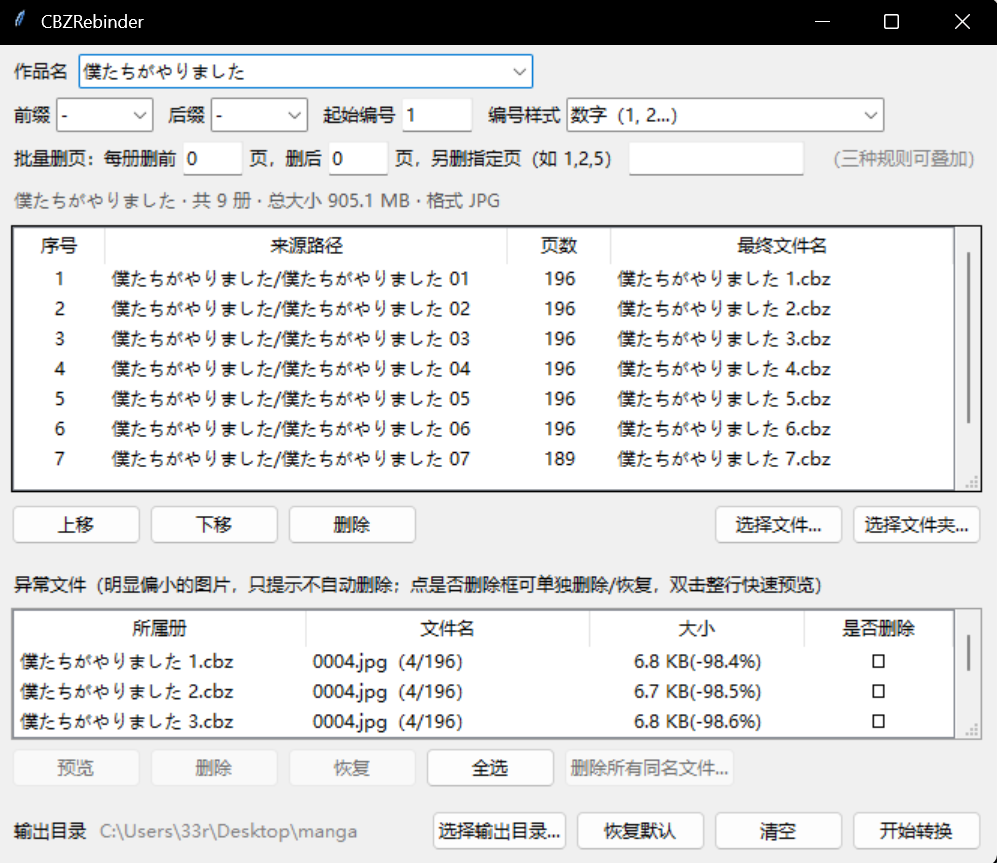
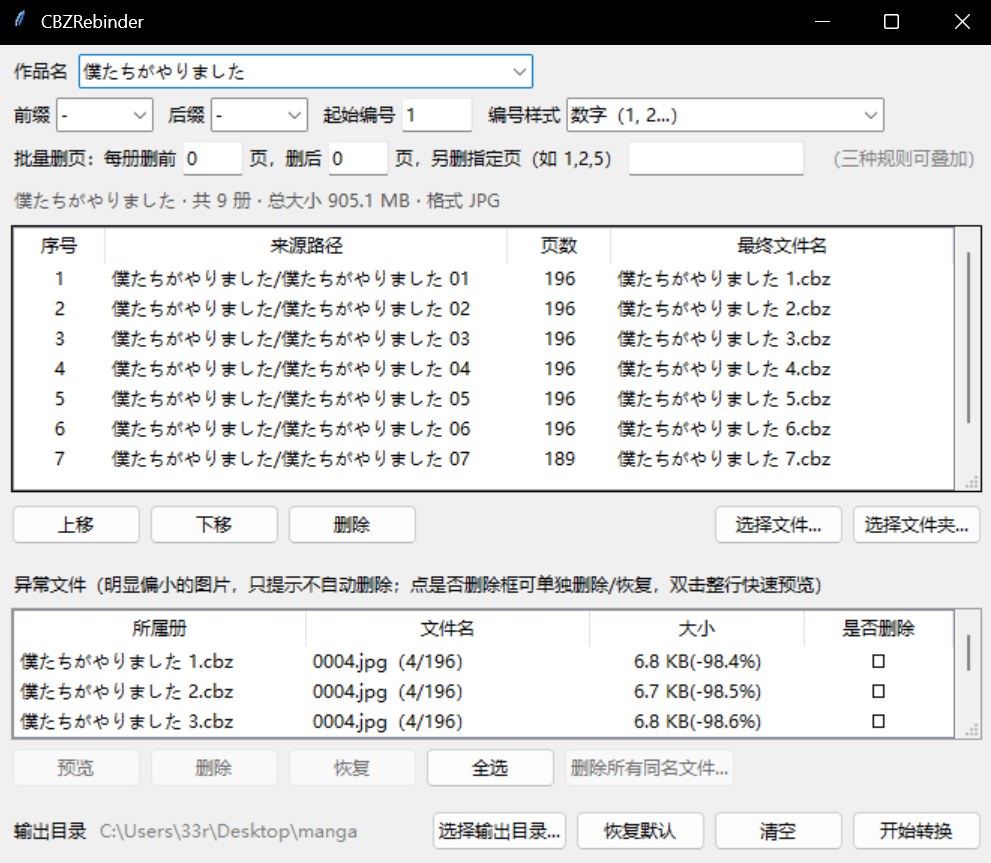
Bake in CBZRebinder's final sizes and remove the size-test panel
Cover stays at 160px, screenshot at 100% width and 80% brightness; the preset buttons that were used to try these are gone. Also carries forward the write-up's own reordering (screenshot above a right-aligned Download/GitHub line, no divider) and its refreshed screenshot.

diff --git a/public/scripts/main.js b/public/scripts/main.js
@@ -419,42 +419,6 @@
     });
   }
 
-  /* temporary: width preset buttons for CBZRebinder's cover thumbnail
-     and inline screenshot (see #project-size-test in projects.astro).
-     Each group is independent and just writes its own custom property
-     onto <html>. Remove this function (and the panel) once sizes are
-     picked. */
-  function initProjectSizeTest() {
-    var panel = document.getElementById("project-size-test");
-    if (!panel) return;
-
-    [
-      { attr: "projectCoverW", cssVar: "--project-cover-w", defaultValue: "160px" },
-      { attr: "projectShotW", cssVar: "--project-shot-w", defaultValue: "100%" },
-      { attr: "projectShotBrightness", cssVar: "--project-shot-brightness", defaultValue: "100%" },
-    ].forEach(function (group) {
-      var buttons = Array.prototype.slice.call(
-        panel.querySelectorAll("[data-" + group.cssVar.slice(2) + "]")
-      );
-      if (!buttons.length) return;
-
-      function paint() {
-        var current = root.style.getPropertyValue(group.cssVar) || group.defaultValue;
-        buttons.forEach(function (button) {
-          button.classList.toggle("is-active", current === button.dataset[group.attr]);
-        });
-      }
-
-      buttons.forEach(function (button) {
-        button.addEventListener("click", function () {
-          root.style.setProperty(group.cssVar, button.dataset[group.attr]);
-          paint();
-        });
-      });
-      paint();
-    });
-  }
-
   /* Accordion rows: clicking a [data-notes-toggle] trigger toggles its
      matching #id panel open/closed in place. Originally built for Notes'
      article list, reused as-is for Library's review rows since the
@@ -744,7 +708,6 @@
   document.addEventListener("astro:page-load", function () {
     initClock();
     initLibraryGrid();
-    initProjectSizeTest();
     initNavPortrait();
     initFilterTabs();
     // after the appliers and after the filter, since both change the

diff --git a/public/styles/components.css b/public/styles/components.css
@@ -1754,7 +1754,7 @@ div.project-screenshot {
    attributes, which otherwise win out over "auto" and lock the ratio
    the image happened to be exported at. */
 img.project-screenshot {
-  width: var(--project-cover-w, 160px);
+  width: 160px;
   height: auto;
 }
 
@@ -2401,60 +2401,9 @@ img.project-screenshot {
   filter: grayscale(100%);
 }
 
-/* temporary: width preset buttons on Projects, see #project-size-test.
-   Remove this rule (and go back to a plain variant like --half above)
-   once a size is picked. */
 .article-figure--cbz-shot img {
-  width: var(--project-shot-w, 100%);
-  filter: brightness(var(--project-shot-brightness, 100%));
-}
-
-/* temporary: the size preset panel itself — parked top-right the same
-   way the old tuning panels were. Remove along with #project-size-test
-   once cover/screenshot sizes are picked. */
-.size-test {
-  position: fixed;
-  top: var(--space-3);
-  right: var(--space-3);
-  z-index: 10;
-  display: flex;
-  flex-direction: column;
-  align-items: flex-end;
-  gap: var(--space-2);
-  font-family: var(--font-mono);
-  font-size: var(--text-xs);
-}
-
-.size-test__group {
-  display: flex;
-  flex-wrap: wrap;
-  justify-content: flex-end;
-  gap: var(--space-2);
-}
-
-.size-test__label {
   width: 100%;
-  text-align: right;
-  text-transform: uppercase;
-  letter-spacing: 0.04em;
-  color: #fff;
-  background: #000;
-  padding: 2px var(--space-2);
-}
-
-.size-test button {
-  border: 1px solid var(--border-strong);
-  background: var(--bg);
-  padding: var(--space-1) var(--space-2);
-  font-family: var(--font-mono);
-  font-size: var(--text-xs);
-  color: var(--text-muted);
-}
-
-.size-test button:hover,
-.size-test button.is-active {
-  color: var(--text);
-  border-color: var(--accent);
+  filter: brightness(80%);
 }
 
 .article-figure figcaption {
